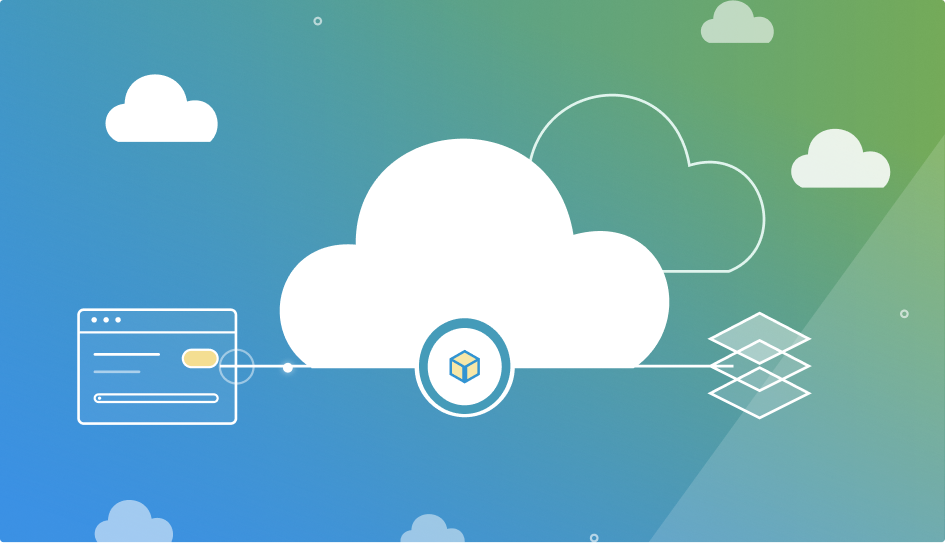
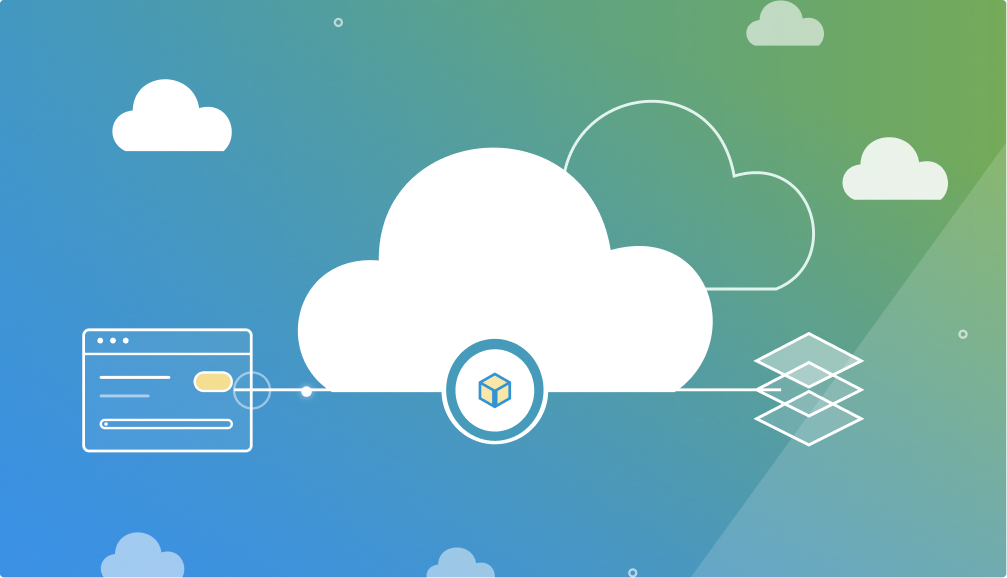
Case-study template: uniform --u scaling + sync to frame 2606:1537
Part A — scaling model:
- Replace the per-value clamp() scaling with one uniform factor. --u is one
  canvas pixel (min(100vw/1728, 1px)); the whole case study is a 1728-unit
  canvas and every value is calc(px * --u), so from 768px up the design just
  zooms as a unit and every line wraps at the same word (verified identical
  at 1728/1512/1440/1280).
- Below 768px the canvas is dropped for a real responsive layout: real
  legible sizes, sticky top bar (breadcrumb + horizontal section row),
  single column, metadata 2-per-row then 1 below 480, stats 2x2.

Part B — measurements synced to frame 2606:1537 (breadcrumb top65, nav
top225/w94, logo 98x15, H1 Georgia 66.6/-1.33/w1006, hero 1006x577, notice
w1060/body w849, dividers w1058, metadata top1301, Overview H2 50/-1,
Times 24 body, stats). Illustration re-exported from node 2685:629.

Rail: active anchor moved to the scaled 225 line; a nav click now holds the
clicked section active until the next real scroll, so near-bottom sections
that can't reach the line stay correct (no flicker, right hash/focus).

Only CaseStudy/CaseRail/case-study-styles change, used by VMware and CLM
only; homepage, About, Writing, password page and the other case studies
are untouched.

Claude-Session: https://claude.ai/code/session_01WYKgvXK1wQFL6PcCW6JFSc

diff --git a/content/case-study-styles.ts b/content/case-study-styles.ts
@@ -1,134 +1,124 @@
 // ---------------------------------------------------------------------------
 // Shared case-study stylesheet, scoped under `.cs`. Ported 1:1 from Figma frame
-// 2699:4272 at its 1728px width, then made responsive WITHOUT a transform: every
-// position, size and gap is a clamp() that is exact at >=1728 (capped, container
-// centred), scales proportionally with the viewport from 1024 to 1727, and is
-// floored at the per-property minimums from the spec. Below 1024 the layout
-// reflows (media queries) and the rail becomes a sticky top bar. No transform is
-// used anywhere, so the rail's position: sticky works natively.
+// 2606:1537 at its 1728px canvas width.
 //
-// `f(px, min)` === the project's fluid() convention: clamp(min, (px/1728)*100vw, px).
+// SCALING MODEL (web, >=768px): one uniform factor, like zooming. `--u` is one
+// canvas pixel — exactly 1px at 1728px viewport, shrinking proportionally below
+// that and capped at 1px above. EVERY value inside the canvas is
+// calc(<figma px> * var(--u)): font size, line height, letter spacing, width,
+// position, gap, the sticky offsets. Because the text width and the font size
+// scale by the same factor, every line wraps at the same word at 1728 / 1512 /
+// 1440 / 1280 — the design just gets smaller as one unit. No per-width
+// breakpoints, no independent min sizes, no reflow in the web range.
+//
+// PHONES (<768px): the canvas and `--u` are dropped for a normal single-column
+// responsive layout with real, legible sizes and a sticky top bar.
 // ---------------------------------------------------------------------------
 
-const f = (px: number, min: number) => `clamp(${min}px, ${((px / 1728) * 100).toFixed(4)}vw, ${px}px)`;
+const u = (px: number) => `calc(${px} * var(--u))`;
 
 export const caseStudyCss = `
 .cs{
-  --cs-georgia: Georgia, "Gelasio", "Times New Roman", serif;
-  --cs-times: "Times New Roman", "Tinos", Times, serif;
-  --cs-inter: Inter, "Helvetica Neue", Arial, sans-serif;
-  --cs-roboto: Roboto, "Helvetica Neue", Arial, sans-serif;
-  --cs-divider: #e4e4e4;
-  --cs-accent: #7a5ab2;
-  background:#fff; color:#202124;
+  --u: min(100vw / 1728, 1px);
+  --georgia: Georgia, "Gelasio", "Times New Roman", serif;
+  --times: "Times New Roman", "Tinos", Times, serif;
+  --inter: Inter, "Helvetica Neue", Arial, sans-serif;
+  --roboto: Roboto, "Helvetica Neue", Arial, sans-serif;
+  --divider: #e4e4e4;
+  --accent: #7a5ab2;
+  background:#fff; color:#202124; overflow-x:clip;
 }
 .cs *{ box-sizing:border-box; }
 
-.cs-skip{ position:absolute; left:16px; top:-60px; z-index:1000; background:#fff; color:#202124;
-  padding:10px 16px; border-radius:6px; font-family:var(--cs-inter); font-size:15px; text-decoration:none;
-  box-shadow:0 2px 10px rgba(0,0,0,.12); transition:top .15s; }
-.cs-skip:focus{ top:12px; outline:2px solid var(--cs-accent); outline-offset:4px; }
-
-.cs-wrap{ max-width:1728px; margin:0 auto; position:relative; }
-.cs-grid{ display:grid; grid-template-columns:${f(234, 139)} ${f(1043, 600)}; column-gap:${f(32, 19)};
-  padding-left:${f(103, 61)}; padding-right:${f(316, 187)}; }
+/* ---------- the 1728 canvas, scaled by --u ---------- */
+.cs-canvas{ width:${u(1728)}; max-width:100%; margin-inline:auto; position:relative; }
+.cs-grid{ display:grid; grid-template-columns:${u(234)} ${u(1060)}; column-gap:${u(32)}; padding-left:${u(103)}; }
 
 /* ---------- left rail (sticky) ---------- */
-.cs-rail{ position:sticky; top:0; align-self:start; padding-top:${f(57, 34)}; }
-.cs-breadcrumb{ display:flex; align-items:center; gap:${f(7, 5)}; white-space:nowrap; font-family:var(--cs-inter); }
-.cs-bc-link{ display:inline-flex; align-items:center; gap:${f(7, 5)}; color:#a2a2a2; text-decoration:none; font-size:${f(20.6, 15)}; }
-.cs-bc-link:hover{ color:var(--cs-accent); }
-.cs-bc-arrow{ font-size:${f(28.5, 19)}; line-height:1; }
-.cs-bc-sep{ color:#cccccc; font-size:${f(20.6, 15)}; }
-.cs-bc-current{ color:#202124; font-weight:500; font-size:${f(20.6, 15)}; letter-spacing:-0.62px; }
+.cs-rail{ position:sticky; top:0; align-self:start; padding-top:${u(65)}; }
+.cs-breadcrumb{ display:flex; align-items:center; gap:${u(7)}; white-space:nowrap; height:${u(33)}; font-family:var(--inter); }
+.cs-bc-link{ display:inline-flex; align-items:center; gap:${u(7)}; color:#a2a2a2; text-decoration:none; font-size:${u(19.9)}; }
+.cs-bc-link:hover{ color:var(--accent); }
+.cs-bc-arrow{ font-size:${u(27.6)}; line-height:1; }
+.cs-bc-sep{ color:#cccccc; font-size:${u(19.9)}; }
+.cs-bc-current{ color:#202124; font-weight:500; font-size:${u(19.9)}; letter-spacing:${u(-0.6)}; }
 
-.cs-nav{ margin-top:${f(102, 60)}; max-height:calc(100vh - ${f(191, 113)} - 24px); overflow-y:auto; overflow-x:hidden;
-  max-width:${f(234, 139)}; scrollbar-width:none; }
+.cs-nav{ margin-top:${u(127)}; width:${u(94)}; max-height:calc(100vh - ${u(249)}); overflow-y:auto; overflow-x:hidden; scrollbar-width:none; }
 .cs-nav::-webkit-scrollbar{ width:0; height:0; }
-.cs-nav ul{ list-style:none; margin:0; padding:0; display:flex; flex-direction:column; gap:${f(24, 15)}; }
-.cs-nav a{ display:block; font-family:var(--cs-inter); font-weight:500; font-size:${f(20.9, 15)}; line-height:1.196;
-  color:#acacac; text-decoration:none; transition:color .15s; }
-.cs-nav a:hover{ color:var(--cs-accent); }
-.cs-nav a.active{ color:var(--cs-accent); }
-.cs-nav a:focus-visible{ outline:2px solid var(--cs-accent); outline-offset:4px; border-radius:2px; }
+.cs-nav ul{ list-style:none; margin:0; padding:0; display:flex; flex-direction:column; gap:${u(23.7)}; }
+.cs-nav a{ display:block; font-family:var(--inter); font-weight:500; font-size:${u(20.7)}; line-height:1.2; color:#acacac; text-decoration:none; transition:color .15s; }
+.cs-nav a:hover{ color:var(--accent); }
+.cs-nav a.active{ color:var(--accent); }
+.cs-nav a:focus-visible{ outline:${u(2)} solid var(--accent); outline-offset:${u(4)}; border-radius:2px; }
 
 /* ---------- content column ---------- */
-.cs-content{ padding-top:${f(191, 113)}; min-width:0; }
-.cs-logo{ display:block; height:auto; }
-.cs-h1{ margin:${f(26, 15)} 0 0; font-family:var(--cs-georgia); font-weight:400; font-size:${f(48, 30)};
-  line-height:1.13; letter-spacing:-0.96px; color:#42444d; max-width:${f(998, 590)}; }
-.cs-hero{ margin-top:${f(36, 21)}; width:${f(945, 560)}; max-width:100%; height:auto; display:block; }
+.cs-content{ padding-top:${u(225)}; min-width:0; }
+.cs-logo{ display:block; width:calc(var(--logo-w) * var(--u)); height:auto; }
+.cs-h1{ margin:${u(32)} 0 0; font-family:var(--georgia); font-weight:400; font-size:${u(66.6)}; line-height:1.13; letter-spacing:${u(-1.33)}; color:#42444d; width:${u(1006)}; max-width:100%; }
+.cs-hero{ margin-top:${u(38)}; width:${u(1006)}; max-width:100%; height:auto; display:block; }
 
-.cs-notice{ margin-top:${f(55, 33)}; }
-.cs-notice-head{ display:flex; align-items:center; gap:${f(7.5, 5)}; }
-.cs-notice-icon{ width:${f(30, 20)}; height:${f(30, 20)}; flex:none; display:block; }
-.cs-notice-title{ font-family:var(--cs-inter); font-weight:500; font-size:${f(30, 20)}; line-height:1.23; color:#464646; }
-.cs-notice-body{ margin:${f(26, 16)} 0 0; font-family:var(--cs-inter); font-weight:400; font-size:${f(18, 14)};
-  line-height:1.333; color:#8c8c8c; max-width:${f(942, 558)}; }
+.cs-notice{ margin-top:${u(58)}; width:${u(1060)}; max-width:100%; }
+.cs-notice-head{ display:flex; align-items:center; gap:${u(7.5)}; }
+.cs-notice-icon{ width:${u(30.2)}; height:${u(30.2)}; flex:none; display:block; }
+.cs-notice-title{ font-family:var(--inter); font-weight:500; font-size:${u(30.2)}; line-height:1.23; color:#464646; }
+.cs-notice-body{ margin:${u(26)} 0 0; font-family:var(--inter); font-weight:400; font-size:${u(18)}; line-height:${u(24)}; color:#8c8c8c; width:${u(849)}; max-width:100%; }
 
-.cs-div{ height:1px; background:var(--cs-divider); border:0; width:100%; }
-.cs-div-hero{ margin-top:${f(55, 33)}; }
-.cs-div-notice{ margin-top:${f(30, 18)}; }
-.cs-div-meta{ margin-top:${f(43, 26)}; }
+.cs-div{ height:1px; background:var(--divider); border:0; width:${u(1058)}; max-width:100%; }
+.cs-div-hero{ margin-top:${u(58)}; }
+.cs-div-notice{ margin-top:${u(39)}; }
+.cs-div-meta{ margin-top:${u(38)}; }
 
-.cs-meta{ margin-top:${f(39, 23)}; display:flex; flex-wrap:wrap; column-gap:${f(89, 53)}; row-gap:${f(32, 19)}; align-items:flex-start; }
-.cs-meta-label{ font-family:var(--cs-inter); font-weight:500; font-size:${f(17, 12)}; letter-spacing:0.85px;
-  text-transform:uppercase; color:#969696; line-height:1.23; }
-.cs-meta-value{ margin-top:${f(14, 9)}; font-family:var(--cs-roboto); font-weight:400; font-size:${f(25, 17)};
-  letter-spacing:-0.5px; color:#4f4f4f; line-height:1.16; }
-.cs-meta-item.scope .cs-meta-value{ font-family:var(--cs-inter); font-size:${f(20.8, 15)}; letter-spacing:0;
-  color:#202124; line-height:1.49; max-width:${f(325, 192)}; }
+.cs-meta{ margin-top:${u(52)}; display:flex; flex-wrap:wrap; column-gap:${u(90)}; row-gap:${u(32)}; align-items:flex-start; }
+.cs-meta-label{ font-family:var(--inter); font-weight:500; font-size:${u(17.35)}; letter-spacing:${u(0.87)}; text-transform:uppercase; color:#969696; line-height:1.2; }
+.cs-meta-value{ margin-top:${u(14)}; font-family:var(--roboto); font-weight:400; font-size:${u(25.45)}; letter-spacing:${u(-0.51)}; color:#4f4f4f; line-height:1.16; }
+.cs-meta-item.scope .cs-meta-value{ font-family:var(--inter); font-size:${u(21.1)}; letter-spacing:0; color:#202124; line-height:${u(31.7)}; width:${u(331)}; max-width:100%; }
 
-.cs-sections{ margin-top:${f(35, 21)}; }
-.cs-section{ scroll-margin-top:${f(191, 113)}; }
-.cs-section + .cs-section{ margin-top:${f(64, 38)}; }           /* NOT IN FRAME — proposed section gap */
-.cs-h2{ margin:0; font-family:var(--cs-georgia); font-weight:400; font-size:${f(44, 28)}; line-height:1.13;
-  letter-spacing:-0.88px; color:#42444d; outline:none; }
-.cs-body{ margin-top:${f(20, 12)}; font-family:var(--cs-times); font-size:${f(22, 17)}; line-height:1.15; color:#464646; max-width:${f(1043, 600)}; }
+.cs-sections{ margin-top:${u(41)}; }
+.cs-section{ scroll-margin-top:${u(225)}; }
+.cs-section + .cs-section{ margin-top:${u(72)}; }                 /* NOT IN FRAME — proposed section gap */
+.cs-h2{ margin:0; font-family:var(--georgia); font-weight:400; font-size:${u(50)}; line-height:1.13; letter-spacing:${u(-1)}; color:#42444d; outline:none; }
+.cs-body{ margin-top:${u(35)}; font-family:var(--times); font-size:${u(24)}; line-height:1.3; color:#464646; width:${u(1043)}; max-width:100%; }
 .cs-body p{ margin:0; }
-.cs-body p + p{ margin-top:${f(25, 15)}; }
-.cs-h3{ margin:${f(34, 20)} 0 ${f(12, 8)}; font-family:var(--cs-georgia); font-weight:400; font-size:${f(30, 19)};
-  line-height:1.2; letter-spacing:-0.6px; color:#42444d; }                 /* NOT IN FRAME — proposed H3 */
+.cs-body p + p{ margin-top:${u(31)}; }
+.cs-h3{ margin:${u(34)} 0 ${u(12)}; font-family:var(--georgia); font-weight:400; font-size:${u(34)}; line-height:1.2; letter-spacing:${u(-0.68)}; color:#42444d; }   /* NOT IN FRAME — proposed H3 */
 
-.cs-stats{ margin-top:${f(93, 55)}; display:grid; grid-template-columns:repeat(4, 1fr); gap:${f(31, 19)}; }
-.cs-stat-n{ font-family:var(--cs-georgia); font-weight:400; font-size:${f(64.5, 40)}; letter-spacing:3.2px;
-  line-height:1.13; color:#353535; }
-.cs-stat-c{ margin-top:${f(9, 6)}; font-family:var(--cs-roboto); font-weight:400; font-size:${f(16, 13)};
-  line-height:1.1875; color:#939393; max-width:${f(223, 132)}; }
+.cs-stats{ margin-top:${u(52)}; display:grid; grid-template-columns:repeat(4, ${u(246)}); gap:${u(31)}; }
+.cs-stat-n{ font-family:var(--georgia); font-weight:400; font-size:${u(64.5)}; letter-spacing:${u(3.2)}; line-height:1.1; color:#353535; }
+.cs-stat-c{ margin-top:${u(9)}; font-family:var(--roboto); font-weight:400; font-size:${u(16)}; line-height:${u(19)}; color:#939393; width:${u(223)}; max-width:100%; }
 
-.cs-footerwrap{ margin-top:${f(221, 131)}; border-top:1px solid var(--cs-divider); }
+.cs-footerwrap{ margin-top:${u(160)}; border-top:1px solid var(--divider); }
 
-/* ---------- 768–1023: reflow, rail becomes a sticky top bar ---------- */
-@media (max-width:1023px){
-  .cs-wrap{ padding:0 40px; }
-  .cs-grid{ display:block; padding-left:0; padding-right:0; }
-  .cs-rail{ position:sticky; top:0; z-index:50; padding:10px 40px; margin:0 -40px; background:#fff; border-bottom:1px solid var(--cs-divider); }
-  .cs-breadcrumb{ gap:7px; }
-  .cs-bc-link{ font-size:15px; gap:7px; } .cs-bc-arrow{ font-size:20px; } .cs-bc-sep,.cs-bc-current{ font-size:15px; }
-  .cs-nav{ margin-top:8px; max-width:none; max-height:none; overflow-x:auto; overflow-y:hidden; }
+/* ---------- phones (<768px): real responsive layout, canvas dropped ---------- */
+@media (max-width:767px){
+  .cs-canvas{ width:100%; max-width:none; padding:0 24px; }
+  .cs-grid{ display:block; grid-template-columns:none; padding-left:0; column-gap:0; }
+  .cs-rail{ position:sticky; top:0; z-index:50; padding:10px 24px; margin:0 -24px; background:#fff; border-bottom:1px solid var(--divider); }
+  .cs-breadcrumb{ height:auto; gap:7px; }
+  .cs-bc-link{ font-size:15px; gap:7px; } .cs-bc-arrow{ font-size:20px; } .cs-bc-sep,.cs-bc-current{ font-size:15px; letter-spacing:-0.3px; }
+  .cs-nav{ margin-top:8px; width:auto; max-height:none; overflow-x:auto; overflow-y:hidden; }
   .cs-nav ul{ flex-direction:row; gap:18px; white-space:nowrap; }
   .cs-nav a{ font-size:15px; }
   .cs-nav.single{ display:none; }
   .cs-content{ padding-top:24px; }
-  .cs-h1{ font-size:30px; max-width:none; }
+  .cs-logo{ width:calc(var(--logo-w) * 1px); }
+  .cs-h1{ width:auto; max-width:none; font-size:32px; line-height:1.15; letter-spacing:-0.5px; margin-top:20px; }
   .cs-hero{ width:100%; }
-  .cs-notice-title{ font-size:20px; } .cs-notice-icon{ width:20px; height:20px; } .cs-notice-body{ font-size:14px; max-width:none; }
-  .cs-meta-item{ width:calc(50% - 12px); } .cs-meta{ column-gap:24px; row-gap:20px; }
-  .cs-meta-label{ font-size:12px; } .cs-meta-value{ font-size:17px; }
-  .cs-meta-item.scope .cs-meta-value{ font-size:15px; max-width:none; }
-  .cs-section + .cs-section{ margin-top:40px; }
-  .cs-section{ scroll-margin-top:96px; }
-  .cs-h2{ font-size:28px; } .cs-body{ font-size:17px; max-width:none; line-height:1.5; } .cs-body p + p{ margin-top:16px; }
-  .cs-h3{ font-size:19px; margin-top:22px; }
-  .cs-stats{ grid-template-columns:repeat(2, 1fr); gap:24px; row-gap:32px; }
-  .cs-stat-n{ font-size:40px; } .cs-stat-c{ font-size:13px; }
-  .cs-footerwrap{ margin-top:80px; }
-}
-@media (max-width:767px){
-  .cs-wrap{ padding:0 24px; }
-  .cs-rail{ padding:10px 24px; margin:0 -24px; }
+  .cs-notice{ width:auto; max-width:none; } .cs-notice-icon{ width:24px; height:24px; } .cs-notice-title{ font-size:20px; } .cs-notice-body{ width:auto; max-width:none; font-size:14px; line-height:1.45; margin-top:14px; }
+  .cs-div{ width:100%; }
+  .cs-div-hero,.cs-div-notice{ margin-top:28px; } .cs-div-meta{ margin-top:24px; }
+  .cs-meta{ margin-top:28px; column-gap:24px; row-gap:20px; }
+  .cs-meta-item{ width:calc(50% - 12px); }
+  .cs-meta-label{ font-size:12px; } .cs-meta-value{ font-size:17px; } .cs-meta-item.scope .cs-meta-value{ width:auto; max-width:none; font-size:15px; line-height:1.5; }
+  .cs-sections{ margin-top:28px; }
+  .cs-section + .cs-section{ margin-top:40px; } .cs-section{ scroll-margin-top:96px; }
+  .cs-h2{ font-size:25px; letter-spacing:-0.3px; } .cs-body{ width:auto; max-width:none; font-size:16px; line-height:1.6; margin-top:16px; } .cs-body p + p{ margin-top:16px; }
+  .cs-h3{ font-size:19px; margin:22px 0 8px; }
+  .cs-stats{ grid-template-columns:repeat(2, 1fr); gap:24px; row-gap:28px; } .cs-stat-n{ font-size:40px; line-height:1.1; } .cs-stat-c{ width:auto; max-width:none; font-size:13px; line-height:1.35; margin-top:6px; }
+  .cs-footerwrap{ margin-top:64px; }
 }
 @media (max-width:479px){
+  .cs-canvas{ padding:0 20px; }
+  .cs-rail{ padding:10px 20px; margin:0 -20px; }
   .cs-meta-item{ width:100%; }
 }
 @media (prefers-reduced-motion: reduce){

diff --git a/components/case/CaseRail.tsx b/components/case/CaseRail.tsx
@@ -27,14 +27,15 @@ export default function CaseRail({ breadcrumb, sections }: { breadcrumb: string;
   const lock = useRef(false);
   const didInit = useRef(false);
 
-  // The scaled 191 line on desktop; the sticky bar's height below 1024.
+  // The scaled 225 content-top line on web (>=768px); the sticky top bar's
+  // height below 768px, where the layout is the responsive phone version.
   const anchorLine = useCallback(() => {
-    if (typeof window === "undefined") return 191;
-    if (window.innerWidth < 1024) {
+    if (typeof window === "undefined") return 225;
+    if (window.innerWidth < 768) {
       const bar = document.querySelector<HTMLElement>(".cs-rail");
       return bar ? bar.getBoundingClientRect().height + 8 : 96;
     }
-    return 191 * Math.min(1, window.innerWidth / 1728);
+    return 225 * Math.min(1, window.innerWidth / 1728);
   }, []);
 
   const computeActive = useCallback(() => {
@@ -114,16 +115,22 @@ export default function CaseRail({ breadcrumb, sections }: { breadcrumb: string;
     }
     const heading = el.querySelector<HTMLElement>(".cs-h2") ?? el;
     heading.setAttribute("tabindex", "-1");
-    const settle = () => {
-      heading.focus({ preventScroll: true });
+    window.setTimeout(() => heading.focus({ preventScroll: true }), reduce ? 0 : 450);
+
+    // Keep the clicked section active until the visitor scrolls again — so the
+    // spy never flickers through the sections passed on the way, and a
+    // near-bottom section that can't reach the line stays the active one.
+    const scrollKeys = new Set(["ArrowUp", "ArrowDown", "PageUp", "PageDown", "Home", "End", " ", "Spacebar"]);
+    const release = (ev: Event) => {
+      if (ev.type === "keydown" && !scrollKeys.has((ev as KeyboardEvent).key)) return;
       lock.current = false;
+      window.removeEventListener("wheel", release);
+      window.removeEventListener("touchstart", release);
+      window.removeEventListener("keydown", release);
     };
-    if (reduce) {
-      settle();
-    } else {
-      // Release the spy once the smooth scroll has settled.
-      window.setTimeout(settle, 650);
-    }
+    window.addEventListener("wheel", release, { passive: true });
+    window.addEventListener("touchstart", release, { passive: true });
+    window.addEventListener("keydown", release);
   };
 
   const single = sections.length < 2;

diff --git a/components/case/CaseStudy.tsx b/components/case/CaseStudy.tsx
@@ -1,3 +1,4 @@
+import type { CSSProperties } from "react";
 import Footer from "@/components/Footer";
 import CaseRail from "@/components/case/CaseRail";
 import { caseStudyCss } from "@/content/case-study-styles";
@@ -27,9 +28,6 @@ export type CaseStudyProps = {
   stats?: readonly CaseStat[];
 };
 
-const fluid = (px: number) =>
-  `clamp(${Math.round(px * 0.59)}px, ${((px / 1728) * 100).toFixed(4)}vw, ${px}px)`;
-
 // Group a section's blocks so consecutive paragraphs share one <div.cs-body>
 // (for the paragraph-to-paragraph spacing) and each h3 stands on its own.
 function groupBlocks(blocks: readonly CaseBlock[]) {
@@ -53,7 +51,7 @@ export default function CaseStudy({ breadcrumb, logo, title, hero, notice, meta,
     <>
       <style dangerouslySetInnerHTML={{ __html: caseStudyCss }} />
       <main className="cs" id="main">
-        <div className="cs-wrap">
+        <div className="cs-canvas">
           <div className="cs-grid">
             <CaseRail breadcrumb={breadcrumb} sections={railSections} />
 
@@ -66,7 +64,7 @@ export default function CaseStudy({ breadcrumb, logo, title, hero, notice, meta,
                   alt={breadcrumb}
                   width={logo.w}
                   height={logo.h}
-                  style={{ width: fluid(logo.w) }}
+                  style={{ "--logo-w": String(logo.w) } as CSSProperties}
                 />
               ) : null}
 
